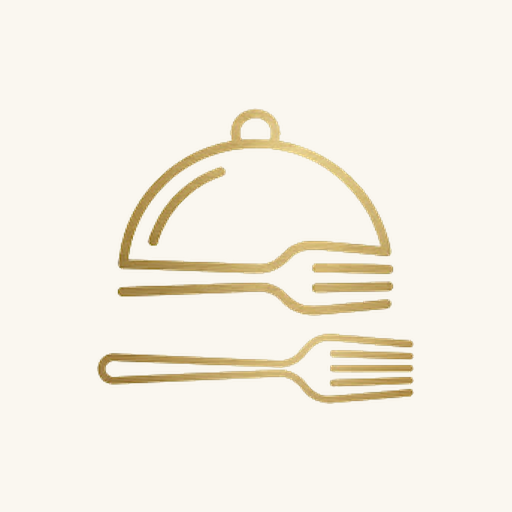
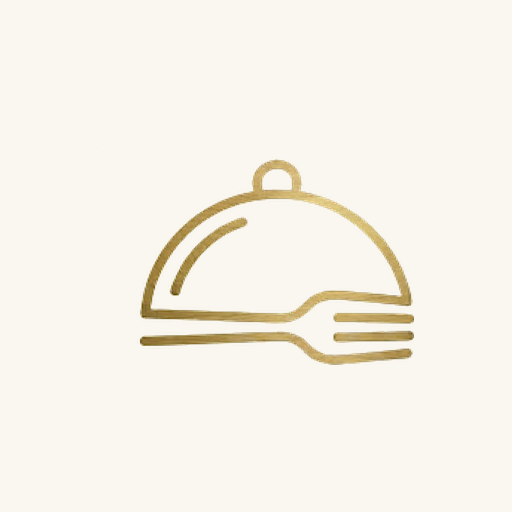
Yeni logoyla ikonları güncelle, "afiyet olsun" mesajını detay sayfasına taşı (1.1.2)
- tools/data/logo.png yeni gönderilen logo görseliyle değiştirildi;
  başlatıcı ikonlar, uyarlanabilir ikon, açılış logosu ve mağaza
  görselleri bu kaynaktan yeniden üretildi.
- "Bugün ne yesem?" sonuç mesajı artık ekranın en üstünde TopAppBar'ın
  üzerine bindirilmiyor; lokanta detay sayfasında telefon numarası
  butonunun altında, sayfa içeriğine gömülü olarak gösteriliyor.
- Konum bulunamadığında gösterilen hata mesajı artık sistem Toast'ı ile
  veriliyor (o durumda gidilecek bir detay sayfası olmadığı için).

Changed region(s): [[0.1875, 0.1875, 0.8125, 0.8125]]

diff --git a/app/src/main/java/com/esnaflokantalari/app/navigation/AppNavigation.kt b/app/src/main/java/com/esnaflokantalari/app/navigation/AppNavigation.kt
@@ -4,7 +4,6 @@ import android.widget.Toast
 import androidx.compose.animation.AnimatedVisibility
 import androidx.compose.animation.fadeIn
 import androidx.compose.animation.fadeOut
-import androidx.compose.animation.slideInVertically
 import androidx.compose.foundation.layout.Box
 import androidx.compose.foundation.layout.WindowInsets
 import androidx.compose.foundation.layout.padding
@@ -24,14 +23,11 @@ import androidx.compose.runtime.getValue
 import androidx.compose.runtime.mutableStateOf
 import androidx.compose.runtime.remember
 import androidx.compose.runtime.setValue
-import androidx.compose.ui.Alignment
 import androidx.compose.ui.Modifier
 import androidx.compose.ui.graphics.vector.ImageVector
 import androidx.compose.ui.platform.LocalContext
-import androidx.compose.ui.unit.dp
 import androidx.lifecycle.viewmodel.compose.viewModel
 import com.esnaflokantalari.app.ui.components.SurpriseLoadingOverlay
-import com.esnaflokantalari.app.ui.components.SurpriseResultToast
 import kotlinx.coroutines.delay
 import androidx.navigation.NavDestination.Companion.hierarchy
 import androidx.navigation.NavGraph.Companion.findStartDestination
@@ -95,26 +91,28 @@ fun AppNavigation(viewModel: AppViewModel = viewModel()) {
     val currentDestination = backStackEntry?.destination
 
     // "Bugün ne yesem?" sonucu: konum alınınca lokantaya git, olmazsa bilgi ver.
-    var resultToast by remember { mutableStateOf<Pair<String, Boolean>?>(null) }
+    // Başarı mesajı artık üstte kaplama olarak değil, lokanta detay sayfasında
+    // telefon numarasının altında gösteriliyor — bkz. RestaurantDetailScreen.
+    var surpriseMessage by remember { mutableStateOf<String?>(null) }
     LaunchedEffect(surprise) {
         when (val event = surprise) {
             is SurpriseEvent.Picked -> {
                 navController.navigate(Routes.restaurant(event.restaurantId))
-                resultToast = "${event.cityName} için seçtik: afiyet olsun!" to false
+                surpriseMessage = "${event.cityName} için seçtik: afiyet olsun!"
                 viewModel.clearSurprise()
             }
             is SurpriseEvent.Failed -> {
-                resultToast = event.message to true
+                Toast.makeText(context, event.message, Toast.LENGTH_LONG).show()
                 viewModel.clearSurprise()
             }
             else -> Unit
         }
     }
     // Birkaç saniye görünüp kendiliğinden solarak kaybolur.
-    LaunchedEffect(resultToast) {
-        if (resultToast != null) {
+    LaunchedEffect(surpriseMessage) {
+        if (surpriseMessage != null) {
             delay(2600)
-            resultToast = null
+            surpriseMessage = null
         }
     }
 
@@ -261,6 +259,7 @@ fun AppNavigation(viewModel: AppViewModel = viewModel()) {
                     isFavorite = favoriteIds.contains(restaurantId),
                     dataUpdatedAt = dataUpdatedAt,
                     localPhotoPath = photos[restaurantId],
+                    surpriseMessage = surpriseMessage,
                     onToggleFavorite = { restaurant?.let(viewModel::toggleFavorite) },
                     onPickPhoto = { uri ->
                         viewModel.savePhoto(restaurantId, uri) { success ->
@@ -283,17 +282,6 @@ fun AppNavigation(viewModel: AppViewModel = viewModel()) {
             exit = fadeOut(),
         ) {
             SurpriseLoadingOverlay()
-        }
-
-        AnimatedVisibility(
-            visible = resultToast != null,
-            enter = fadeIn() + slideInVertically { -it / 2 },
-            exit = fadeOut(),
-            modifier = Modifier.align(Alignment.TopCenter).padding(top = 16.dp),
-        ) {
-            resultToast?.let { (message, isError) ->
-                SurpriseResultToast(message = message, isError = isError)
-            }
         }
         }
     }

diff --git a/app/src/main/java/com/esnaflokantalari/app/ui/screens/RestaurantDetailScreen.kt b/app/src/main/java/com/esnaflokantalari/app/ui/screens/RestaurantDetailScreen.kt
@@ -5,6 +5,9 @@ import android.widget.Toast
 import androidx.activity.compose.rememberLauncherForActivityResult
 import androidx.activity.result.PickVisualMediaRequest
 import androidx.activity.result.contract.ActivityResultContracts
+import androidx.compose.animation.AnimatedVisibility
+import androidx.compose.animation.fadeIn
+import androidx.compose.animation.fadeOut
 import androidx.compose.foundation.background
 import androidx.compose.foundation.layout.Arrangement
 import androidx.compose.foundation.layout.Box
@@ -54,6 +57,7 @@ import androidx.compose.ui.unit.dp
 import androidx.compose.ui.unit.sp
 import com.esnaflokantalari.app.model.Restaurant
 import com.esnaflokantalari.app.ui.components.RestaurantVisual
+import com.esnaflokantalari.app.ui.components.SurpriseResultToast
 import com.esnaflokantalari.app.ui.dial
 import com.esnaflokantalari.app.ui.formatCount
 import com.esnaflokantalari.app.ui.formatDistance
@@ -70,6 +74,7 @@ fun RestaurantDetailScreen(
     isFavorite: Boolean,
     dataUpdatedAt: String,
     localPhotoPath: String?,
+    surpriseMessage: String? = null,
     onToggleFavorite: () -> Unit,
     onPickPhoto: (Uri) -> Unit,
     onRemovePhoto: () -> Unit,
@@ -276,6 +281,15 @@ fun RestaurantDetailScreen(
                     ) {
                         Icon(Icons.Filled.Call, contentDescription = null, modifier = Modifier.padding(end = 8.dp))
                         Text("Ara: $phone")
+                    }
+                }
+
+                AnimatedVisibility(visible = surpriseMessage != null, enter = fadeIn(), exit = fadeOut()) {
+                    surpriseMessage?.let { message ->
+                        SurpriseResultToast(
+                            message = message,
+                            modifier = Modifier.fillMaxWidth().padding(top = 14.dp),
+                        )
                     }
                 }
 

diff --git a/app/src/main/java/com/esnaflokantalari/app/ui/components/SurpriseOverlay.kt b/app/src/main/java/com/esnaflokantalari/app/ui/components/SurpriseOverlay.kt
@@ -92,25 +92,24 @@ fun SurpriseLoadingOverlay(modifier: Modifier = Modifier) {
     }
 }
 
-/** "Bugün ne yesem?" sonucunu gösteren, birkaç saniye sonra kendiliğinden solan kart. */
+/** "Bugün ne yesem?" ile seçilen lokantada gösterilen, kısa süre sonra kendiliğinden solan kart. */
 @Composable
-fun SurpriseResultToast(message: String, isError: Boolean, modifier: Modifier = Modifier) {
+fun SurpriseResultToast(message: String, modifier: Modifier = Modifier) {
     Card(
-        modifier = modifier.padding(horizontal = 20.dp),
+        modifier = modifier,
         shape = RoundedCornerShape(16.dp),
-        elevation = CardDefaults.cardElevation(defaultElevation = 6.dp),
+        colors = CardDefaults.cardColors(containerColor = TerracottaContainer),
+        elevation = CardDefaults.cardElevation(defaultElevation = 0.dp),
     ) {
         Row(
             modifier = Modifier.padding(16.dp),
             verticalAlignment = Alignment.CenterVertically,
         ) {
-            if (!isError) {
-                Icon(Icons.Filled.Restaurant, contentDescription = null, tint = Terracotta)
-            }
+            Icon(Icons.Filled.Restaurant, contentDescription = null, tint = Terracotta)
             Text(
                 message,
                 style = MaterialTheme.typography.bodyLarge,
-                modifier = Modifier.padding(start = if (isError) 0.dp else 10.dp),
+                modifier = Modifier.padding(start = 10.dp),
             )
         }
     }
